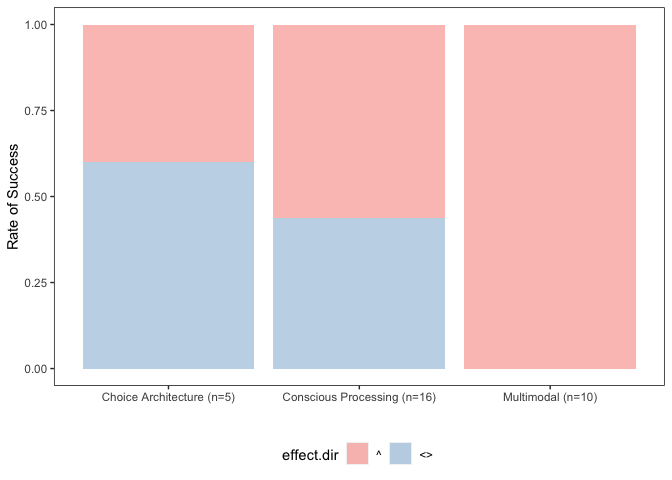
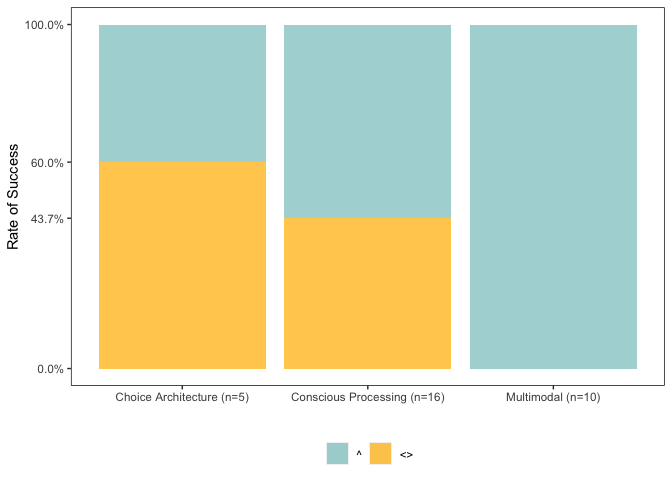
made theme changes to figures

diff --git a/markdowns/visuals.md b/markdowns/visuals.md
@@ -63,8 +63,9 @@ studies (n=31)’”)
 ``` r
 ggplot(sr.dataset,aes(x=approach,y=num.study,fill=effect.dir)) + 
   geom_col(position="fill",alpha=.8) + 
-  scale_fill_brewer(palette ="Pastel1") +
+  scale_fill_manual(values =c("paleturquoise3","goldenrod1"),guide=guide_legend(title=NULL)) +
   scale_x_discrete(labels=c("Choice Architecture (n=5)","Conscious Processing (n=16)","Multimodal (n=10)")) +
+  scale_y_continuous(labels=scales::percent_format(.1L),breaks=c(1,.6,.437,0)) +
   xlab(" ") + 
   ylab("Rate of Success") +
   theme(legend.position="bottom",panel.border=element_rect(fill=NA),panel.background=element_blank())
@@ -120,14 +121,14 @@ The fixed effect model used for our meta-analysis was restricted to the
 in meat consumption.
 
 ``` r
-ggplot(fixed.effect,aes(x=effect.mag,y=study.title,color=approach)) + 
+ggplot(fixed.effect,aes(x=effect.mag,y=study.title,fill=approach)) + 
   geom_errorbar(aes(xmin=lower.ci,xmax=higher.ci),color="black",width=.2,size=.3) +
-  geom_point(alpha=.8,size=4.2) + 
+  geom_point(alpha=.5,size=6,shape=21) + 
   xlab("Estimated Effect Size") + 
   ylab(" ") + 
   scale_x_continuous(breaks=c(0,2,4,6,8),limits=c(0,8)) +
   labs(color=" ") +
-  scale_color_brewer(breaks=c("Multimodal","Choice Architecture","Conscious Processing"),palette="Set2",labels=c("Multimodal (n=10)","Choice Architecture (n=5)","Conscious Processing (n=16)")) +
+  scale_fill_brewer(breaks=c("Multimodal","Choice Architecture","Conscious Processing"),palette="Set2",labels=c("Multimodal (n=10)","Choice Architecture (n=5)","Conscious Processing (n=16)")) +
   scale_y_discrete(limits=c("Garnett et al. (2020a)","Garnett et al. (2021)","Brunner et al. (2018)","Schwitzgebel, Cokelet, & Singer (2020)","Malan (2020)","Larner et al. (2021)","Kurz (2018)","Garnett et al. (2019)","Jalil, Tasoff, & Bustamante (2020)","Turnwald & Crum (2019)","Cerezo-Prieto & Frutos-Esteban (2021)","Piester et al. (2020a)","Piester et al. (2020b)","Slapø & Karevold (2019)","Andersson & Nelander (2021)","Michels et al. (2008)","Garnett et al. (2020b)")) + 
   theme(legend.position="bottom",panel.background=element_blank(),panel.border=element_rect(fill=NA),panel.grid.minor=element_blank())
 ```
@@ -142,10 +143,10 @@ ggplot(fixed.effect,aes(x=effect.mag,y=approach,fill=approach)) +
   stat_summary(fun="mean",geom="point",shape=21,fill="black",size=3) +
   scale_y_discrete(limits=c("Conscious Processing","Choice Architecture","Multimodal")) +
   scale_fill_brewer(palette="Set2",breaks=c("Multimodal","Choice Architecture","Conscious Processing"),labels=c("Multimodal (n=10)","Choice Architecture (n=5)","Conscious Processing (n=16)")) +
-  xlab("Odds Ratio") + 
+  xlab("Mean Effect Size") + 
   ylab(" ") +
   labs(fill=" ") +
-  coord_cartesian(xlim=c(.8,4)) +
+  coord_cartesian(xlim=c(.9,3.6)) +
   theme(legend.position="bottom",panel.border=element_rect(fill=NA),panel.background=element_blank(),axis.ticks.y=element_blank(),axis.text.y=element_blank(),panel.grid.minor=element_blank())
 ```
 
